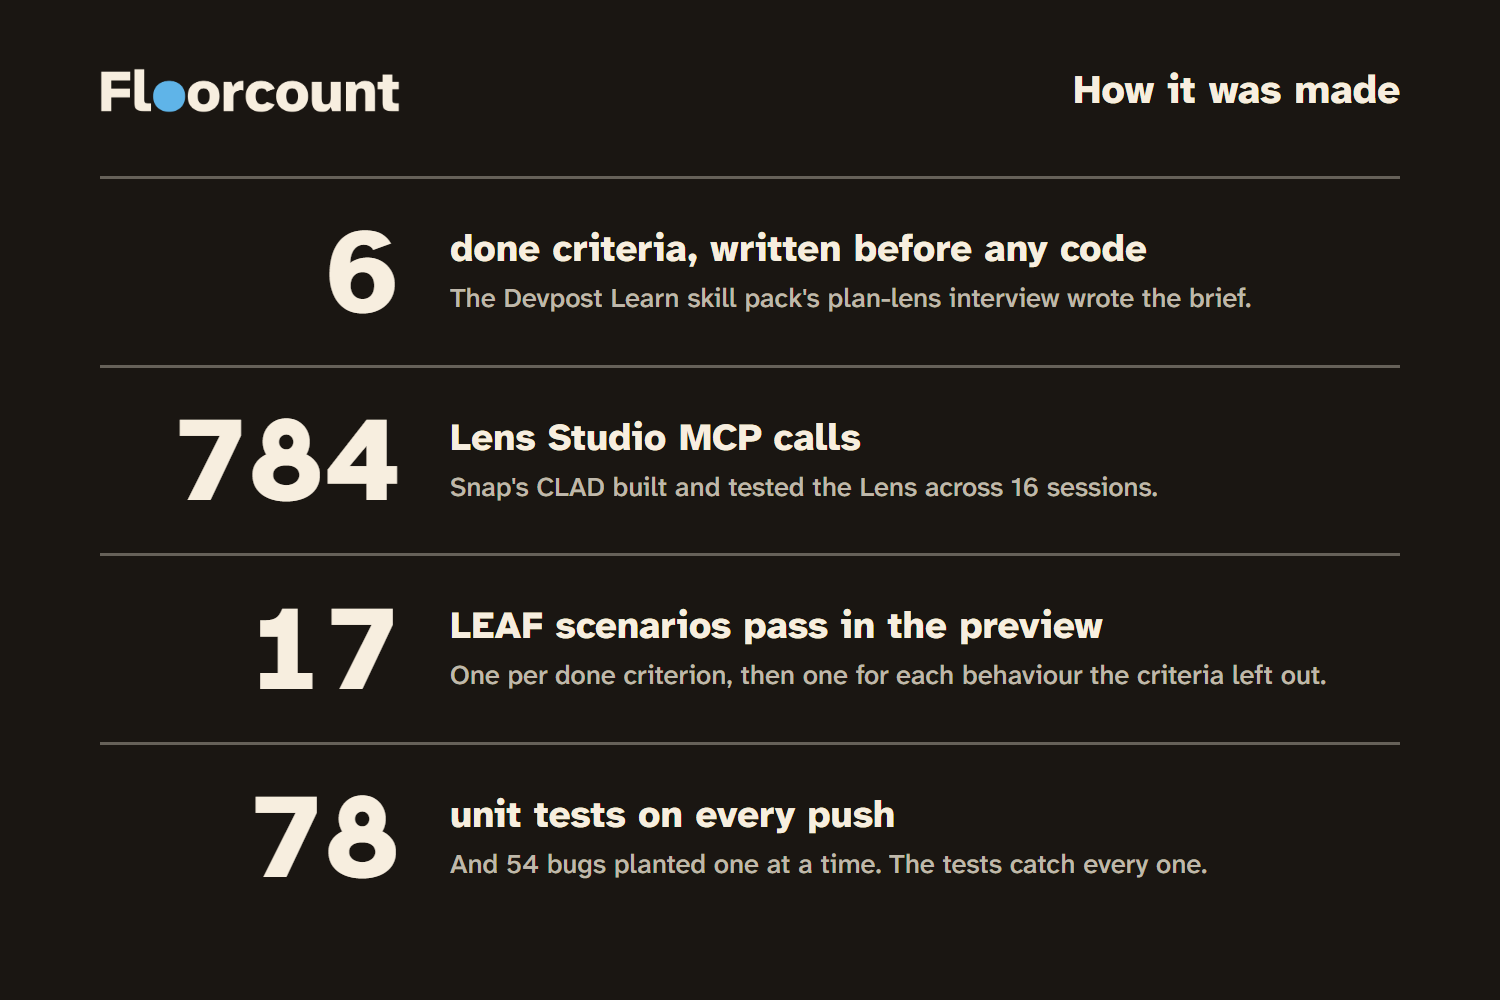
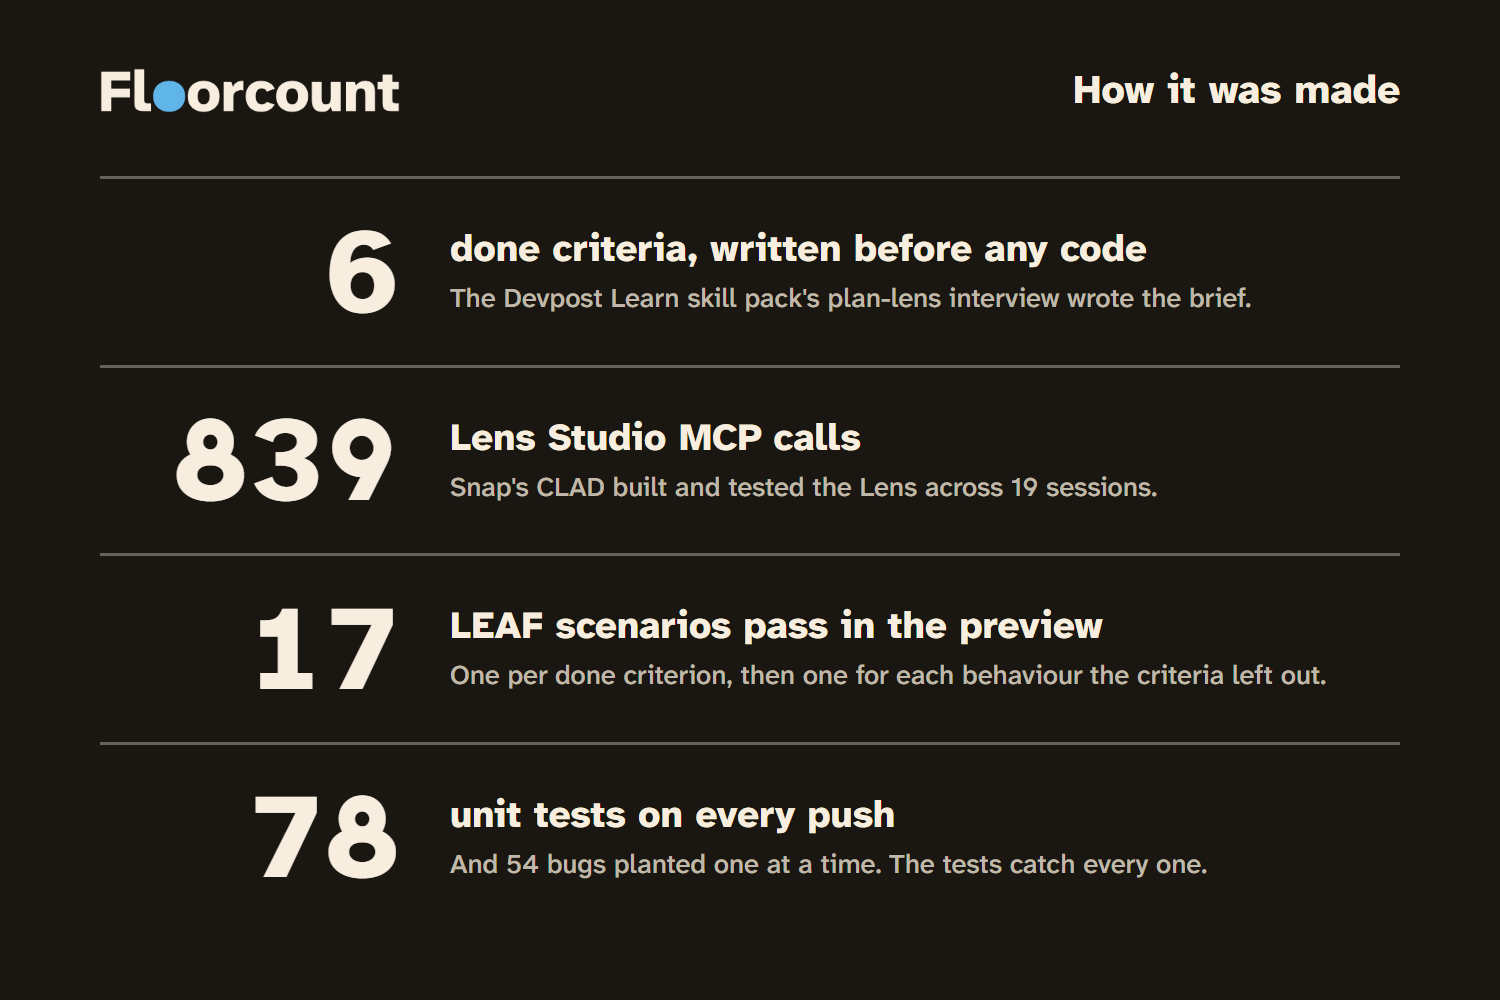
Final fresh-clone sweep on 222c26d: 17 of 17, c8 three of three
Beat test, build log counts and the known resume quirk recorded.

Changed region(s): [[0.092, 0.403, 0.276, 0.496], [0.6747, 0.465, 0.7667, 0.496]]

diff --git a/.design/brand/gallery-how-it-was-made.html b/.design/brand/gallery-how-it-was-made.html
@@ -35,9 +35,9 @@ body { width: 1500px; height: 1000px; overflow: hidden; background: #1A1612; col
       <p class="how">The Devpost Learn skill pack's plan-lens interview wrote the brief.</p></div>
   </div>
   <div class="row">
-    <div class="n" id="mcp">784</div>
+    <div class="n" id="mcp">839</div>
     <div><p class="what">Lens Studio MCP calls</p>
-      <p class="how">Snap's CLAD built and tested the Lens across <span id="sessions">16</span> sessions.</p></div>
+      <p class="how">Snap's CLAD built and tested the Lens across <span id="sessions">19</span> sessions.</p></div>
   </div>
   <div class="row">
     <div class="n" id="leaf">17</div>

diff --git a/devpost/PROMPTS.md b/devpost/PROMPTS.md
@@ -345,3 +345,37 @@ Do, in order:
 
 If usage or time runs short: the sweep and the saves come first, then the report, then step 4, then the c8 extension (say so if it is missing).
 ```
+
+## 6 November: answer-guard rerun
+
+```text
+Rerun one LEAF scenario on the Floorcount Lens now that the GPU is free, and record the result. About 25 tool calls. Change nothing in the Lens.
+
+Project root: this folder (ARSpec.esproj). Lens Studio is open on it; the lens-studio MCP server is connected. Read the "Review fixes, 6 November 2026" section at the end of devpost/design-pass-report.md first: it explains that c8 failed only because the preview was throttled.
+
+Rules: install nothing; never call QueryRuntimeSceneTool or PreviewInteractTool. Do not run git. Do not start a shell command with `cd`. Do not move or click the mouse. Do not edit anything except the report section named below. LEAF's panel prints "Loaded 19 scenario(s) from preview" when ready; a run dispatched before that is lost. Pin LEAF to the preview. A run that outlasts the MCP timeout may still have finished; read its result from the log.
+
+1. Refresh the preview, wait for the panel's ready line, run floorcount-c2-beat and read its sample count from the log. If it is under 90 samples the preview is still throttled: write that number into the report section as "GPU still busy, c8 not rerun" and stop.
+2. Otherwise refresh, then run floorcount-c8-answer-guard twice, refreshing between runs. Read every "[C8]" print from the Lens Studio log for both runs.
+3. Append to the "Review fixes, 6 November 2026" section of devpost/design-pass-report.md a short subsection "c8 rerun" with the C2 sample count, each c8 run's result and its printed lines (the beats of the late answer and the dropped one, and the paused check). If c8 fails on a healthy preview, quote the failing assertion and say which part failed; do not edit the scenario or the Lens.
+4. Clear the saved session if any scenario left one (floorcount-c9-session-memory clears it) and save through the Editor API.
+```
+
+## 6 November: final LEAF sweep on a fresh clone
+
+```text
+Run the LEAF scenarios on a fresh clone of the public repository. Keep this tight: about 60 tool calls. Change nothing in the Lens.
+
+Lens Studio is already open on the fresh clone at <fresh clone>/ (cloned from GitHub minutes ago) and the lens-studio MCP server is connected. Work only in that folder. Do not touch the working project.
+
+Rules: install nothing; never call QueryRuntimeSceneTool or PreviewInteractTool. Do not run git. Do not start a shell command with `cd`. Do not move or click the mouse. Do not save the project: it is a throwaway clone. Do not edit any file.
+
+LEAF's panel prints "Loaded 19 scenario(s) from preview" when it is ready, and a run dispatched before that line is lost. Pin LEAF to the preview, not a device. The preview slows down the longer it runs, so refresh it before the timing-sensitive scenarios (c2, c5, c8, c9, c13). If it goes silent, check PreviewPanelTool getConfig: "Preview is Paused" needs a refresh. Check that the Lens Studio window is not minimised (IsIconic from PowerShell; restore with ShowWindow(handle, 9)), because a minimised window throttles rendering. A run that outlasts the MCP timeout may still have finished: read the result from the log.
+
+1. Confirm the open project is the clone (Editor API `projectFile` or `projectDirectory`) and that it compiled clean. If the wrong project is open, stop and say so.
+2. Start the preview and confirm "Floorcount: session started" with no Floorcount errors.
+3. Run floorcount-c1-start through floorcount-c17-teal-law once each, in order, reading C2's sample count. If that count is under 90 the preview is throttled: say so.
+4. Then run floorcount-c8-answer-guard twice more, three runs in all, refreshing before each. Read its "[C8]" prints for every run. It was changed today, so three runs matter here.
+5. Do not retry any other failure more than once, and report any retry with its reason.
+6. Finish with a plain report: the project path, the compile result, each scenario PASS or FAIL, C2's sample count and BPM, and for each c8 run the beats of the late answer and the dropped one. Write nothing to disk.
+```

diff --git a/README.md b/README.md
@@ -64,7 +64,7 @@ It changes with how I'm doing. Two Agains slow the music and cut the step in hal
 1. **Planned with the Devpost skill pack.** The `plan-lens` interview wrote [devpost/design-brief.md](devpost/design-brief.md): one spatial moment, where each thing lives, how the hands act on it, and six done criteria that can be checked in the preview.
 2. **Built by CLAD through the Lens Studio MCP.** Snap's `specs-experience-builder` agent built the scene in Lens Studio 5.23.2 from the brief. Spectacles Interaction Kit handles every pinch, `build-music` and `build-sfx` generated the audio, the sound plays spatially from the pad, and the Editor API saves the project at each milestone.
 
-   Sixteen CLAD sessions made 784 Lens Studio MCP calls: [devpost/BUILD_LOG.md](devpost/BUILD_LOG.md) counts them from the sessions' own transcripts, and [devpost/PROMPTS.md](devpost/PROMPTS.md) holds every prompt, word for word. The account of the build is in [devpost/build-report.md](devpost/build-report.md), including the beat clock CLAD had to rewrite: the preview reports a stale audio position for about a second after play, and the first version read that as the loop wrapping and ran the count at up to 620 BPM against a 140 BPM track.
+   Nineteen CLAD sessions made 839 Lens Studio MCP calls: [devpost/BUILD_LOG.md](devpost/BUILD_LOG.md) counts them from the sessions' own transcripts, and [devpost/PROMPTS.md](devpost/PROMPTS.md) holds every prompt, word for word. The account of the build is in [devpost/build-report.md](devpost/build-report.md), including the beat clock CLAD had to rewrite: the preview reports a stale audio position for about a second after play, and the first version read that as the loop wrapping and ran the count at up to 620 BPM against a 140 BPM track.
 3. **Tested twice over.** LEAF scenarios run the Lens in the preview, one per done criterion and then more for what the criteria leave out. Unit tests run the session rules and the footwork data with no Lens Studio at all, on every push. See [Tests](#tests).
 4. **Designed as its own thing.** The first build worked and looked like a default: cartoon feet in blue and orange, a frosted panel, stock icons. The look it has now comes from the clave, salsa's timekeeper. The clave is the pair of wooden sticks that keep time in salsa. The pad is laid out like its rhythm grid, each print is a struck note, and the light fades over one beat the way a struck clave rings out. On this display black is transparent and alpha is brightness, so there is one ivory ink at three brightnesses and one teal reserved for the 1. Left feet are solid and right feet are outlined, because a clave pair has two roles: one is held and the other strikes it. The laws are in [.design/brand/CHARTER.md](.design/brand/CHARTER.md), the sheet is [.design/brand/index.html](.design/brand/index.html), and what CLAD changed to apply them is in [devpost/design-pass-report.md](devpost/design-pass-report.md).
 
@@ -96,7 +96,7 @@ Seventeen LEAF scenarios in [`Assets/Tests/`](Assets/Tests/), run in the preview
 | `floorcount-c16-arc-inside-pad` | Measured in the running Lens, both turn arcs stay inside the border: 35.7 and 35.2 cm from the centre against an inner edge at 43.2. |
 | `floorcount-c17-teal-law` | Across all three steps, the only teal in the scene is the count 1 print and cell 1. |
 
-The first six are the brief's done criteria. The beat test, run on a fresh clone of this repository, sampled the Lens 127 times over 8 seconds and found no wrong print, nothing lit on a hold, and 139.6 BPM against the 140 BPM loop. How many samples it gets depends on how fast the preview is running that day; the result is the same.
+The first six are the brief's done criteria. The beat test, run on a fresh clone of this repository, sampled the Lens 121 times over 8 seconds and found no wrong print, nothing lit on a hold, and 140.6 BPM against the 140 BPM loop. How many samples it gets depends on how fast the preview is running that day; the result is the same.
 
 Most scenarios press Again and Got it back to back to walk the rules, so they switch the one-answer-per-8-count guard off. Scenario 8 runs with it on, the way the Lens ships.
 

diff --git a/devpost/submission.md b/devpost/submission.md
@@ -61,11 +61,11 @@ It changes with how I'm doing. Two Agains slow the music and cut the step in hal
 
 I planned it with the Devpost skill pack. `plan-lens` wrote `devpost/design-brief.md` with one spatial moment, where each thing lives and six done criteria I could check in the preview.
 
-Snap's CLAD built it from that brief in Lens Studio 5.23.2 through the Lens Studio MCP: 16 sessions and 784 MCP calls, counted from the sessions' own transcripts in `devpost/BUILD_LOG.md`, with every prompt in `devpost/PROMPTS.md`. Spectacles Interaction Kit handles every pinch (its `Interactable` on each print and each answer capsule, and `Billboard` on the card), `build-music` and `build-sfx` made the audio, and the sound plays spatially from the pad.
+Snap's CLAD built it from that brief in Lens Studio 5.23.2 through the Lens Studio MCP: 19 sessions and 839 MCP calls, counted from the sessions' own transcripts in `devpost/BUILD_LOG.md`, with every prompt in `devpost/PROMPTS.md`. Spectacles Interaction Kit handles every pinch (its `Interactable` on each print and each answer capsule, and `Billboard` on the card), `build-music` and `build-sfx` made the audio, and the sound plays spatially from the pad.
 
-What the MCP was used for most: `run_leaf_scenario` 228 times, `MovePreviewCamera` 112, `PreviewPanelTool` 97, `ExecuteEditorCode` 82 (scene edits and every save), `RunAndCollectLogsTool` 72 and `RecompileTypeScriptTool` 59. The CLAD skills on the record are `specs-experience-builder` for the first build, `scene-construction`, `editor-api` and `materials` for the scene, the LEAF skills for installing, writing and running the tests, and `build-music` and `build-sfx`. The Lens is nine TypeScript scripts under `Assets/Scripts/`; CLAD wrote them from the brief, and I edited the session rules and the footwork data by hand when the unit tests found the arcs off the pad.
+What the MCP was used for most: `run_leaf_scenario` 251 times, `MovePreviewCamera` 112, `PreviewPanelTool` 102, `ExecuteEditorCode` 86 (scene edits and every save), `RunAndCollectLogsTool` 85 and `RecompileTypeScriptTool` 60. The CLAD skills on the record are `specs-experience-builder` for the first build, `scene-construction`, `editor-api` and `materials` for the scene, the LEAF skills for installing, writing and running the tests, and `build-music` and `build-sfx`. The Lens is nine TypeScript scripts under `Assets/Scripts/`; CLAD wrote them from the brief, and I edited the session rules and the footwork data by hand when the unit tests found the arcs off the pad.
 
-LEAF runs one scenario per done criterion, then eleven more for what the criteria leave out, like the session memory and the rule that only the 1 is ever teal: 17 of 17 pass in the preview. The beat test, run on a fresh clone of the repository, sampled the Lens 127 times over 8 seconds and found no wrong print, nothing lit on a hold, and 139.6 BPM against the 140 BPM loop.
+LEAF runs one scenario per done criterion, then eleven more for what the criteria leave out, like the session memory and the rule that only the 1 is ever teal: 17 of 17 pass in the preview. The beat test, run on a fresh clone of the repository, sampled the Lens 121 times over 8 seconds and found no wrong print, nothing lit on a hold, and 140.6 BPM against the 140 BPM loop.
 
 The rules of a session (when to slow down, when to halve the step, when to move on) and the footwork data are plain TypeScript with no Lens Studio in them, so 78 unit tests run on every push. I also planted 54 bugs in that code, one at a time, to check the tests catch each one. They catch all 54.
 

diff --git a/devpost/BUILD_LOG.md b/devpost/BUILD_LOG.md
@@ -23,26 +23,29 @@ The first session, on 1 November, ran inside the planning chat and its transcrip
 | 6 Nov, 17:59 | Fresh-clone sweep | Ran all 17 LEAF scenarios on a fresh clone of the public repository: 17 of 17, no retries. | 8 | 40 | 35 |
 | 6 Nov, 18:15 | Preview capture, more (cut off) | Recorded the arrow and count-hiding clips through the real answer guard. Lens Studio crashed on the third clip. | 13 | 83 | 19 |
 | 6 Nov, 18:32 | Review fixes | Compiled and swept the Lens after the fixes from an independent code review, extended the answer-guard scenario, checked the fade line in a running session. | 42 | 131 | 53 |
-| | **Counted total** | 16 sessions | 472 | **2125** | **784** |
+| 6 Nov, 20:35 | Answer guard rerun | Reran the answer-guard scenario on a free GPU. One pass, one fail, which traced to the scenario, not the Lens. | 7 | 30 | 16 |
+| 6 Nov, 20:51 | Fresh-clone sweep (stopped) | Found the working project still holding the MCP and stopped before running anything, rightly. | 2 | 10 | 2 |
+| 6 Nov, 21:15 | Fresh-clone sweep, final | All 17 LEAF scenarios on a fresh clone of the public repository, with the answer-guard scenario three times: 17 of 17, no retries. | 9 | 44 | 37 |
+| | **Counted total** | 19 sessions | 490 | **2209** | **839** |
 
 ## What the Lens Studio MCP was used for
 
 | MCP tool | Calls |
 |---|---|
-| `run_leaf_scenario` | 228 |
+| `run_leaf_scenario` | 251 |
 | `MovePreviewCamera` | 112 |
-| `PreviewPanelTool` | 97 |
-| `ExecuteEditorCode` | 82 |
-| `RunAndCollectLogsTool` | 72 |
-| `RecompileTypeScriptTool` | 59 |
+| `PreviewPanelTool` | 102 |
+| `ExecuteEditorCode` | 86 |
+| `RunAndCollectLogsTool` | 85 |
+| `RecompileTypeScriptTool` | 60 |
 | `asset-graphql` | 38 |
-| `list_leaf_scenarios` | 21 |
+| `list_leaf_scenarios` | 25 |
 | `scene-graphql` | 16 |
+| `open_leaf_panel` | 16 |
 | `CapturePanelScreenshotTool` | 15 |
-| `open_leaf_panel` | 14 |
+| `set_leaf_execution_target` | 8 |
+| `ListAllPanels` | 7 |
 | `VirtualScene` | 6 |
-| `ListAllPanels` | 6 |
-| `set_leaf_execution_target` | 6 |
 | `ListInstalledPackagesTool` | 4 |
 | `SearchLensStudioAssetLibrary` | 2 |
 | `QueryRuntimeSceneTool` | 2 |
@@ -52,4 +55,4 @@ The first session, on 1 November, ran inside the planning chat and its transcrip
 
 Two of these tools are on every later prompt's do-not-call list, and the table still shows them. The two `QueryRuntimeSceneTool` calls and the one `InstallLensStudioPackage` call are from the 2 November build session. The install was LEAF itself, which the Lens needed. The scene query silently installed a second package that broke the TypeScript build, which is how that rule got onto every prompt after it. The one `PreviewInteractTool` call, on 3 November, did the same, and joined the list.
 
-Five sessions were cut off partway through by a usage or turn limit or a crash, and two were stopped by hand. All seven are listed and counted, including the ones that went wrong. Each session after a cut-off began by reading what the last one had written.
+Five sessions were cut off partway through by a usage or turn limit or a crash, two were stopped by hand, and one stopped itself on finding the wrong project open. All eight are listed and counted, including the ones that went wrong. Each session after a cut-off began by reading what the last one had written.

diff --git a/devpost/clean-clone-test.md b/devpost/clean-clone-test.md
@@ -1,6 +1,6 @@
 # Fresh-clone test
 
-What happens when someone who is not me gets this repository and opens it. Run on 6 November 2026 from the public GitHub repository, on Windows 11 with Lens Studio 5.23.2. Results are for commit `7e5fa87`. The commits after it change only documents and this file: the Lens, its tests and the packages are byte for byte the same. It runs again if any of those change before submission.
+What happens when someone who is not me gets this repository and opens it. Run on 6 November 2026 from the public GitHub repository, on Windows 11 with Lens Studio 5.23.2. Results are for commit `222c26d`. Any commit after it changes only documents: the Lens, its tests and the packages are byte for byte the same. It runs again if any of those change before submission.
 
 ## What was done
 
@@ -18,8 +18,8 @@ What happens when someone who is not me gets this repository and opens it. Run o
 | Lens Studio opens the project | Yes, after one prompt (below) |
 | TypeScript compiles | Yes, clean |
 | The Lens starts | Yes: "Floorcount: session started, Basic step at Slow (140 BPM)", no Floorcount errors |
-| LEAF scenarios | **17 of 17 pass, no retries** |
-| Beat test on the clone | 127 samples over 8 seconds, no wrong print, nothing lit on a hold, 139.6 BPM |
+| LEAF scenarios | **17 of 17 pass, no retries**, and the answer-guard scenario, changed that day, 3 of 3 |
+| Beat test on the clone | 121 samples over 8 seconds, no wrong print, nothing lit on a hold, 140.6 BPM |
 | GitHub Actions on the same commit | Passes: unit tests, planted breaks, repository checks |
 
 The number of samples depends on how fast the preview is running on the day. The result is the same: no wrong print, on tempo.

diff --git a/devpost/design-pass-report.md b/devpost/design-pass-report.md
@@ -1281,3 +1281,17 @@ scenario's `canAnswer` false check failed. The 2.94 s the run spent there is tha
 now looks at the 8-count straight after the answer, wherever the pinch left the session, and also
 asserts that it is still inside the six-beat window. The fresh-clone sweep in
 `devpost/clean-clone-test.md` runs it on the commit that is public.
+
+**Final sweep on a fresh clone of the public repository, commit 222c26d.** 17 of 17, no retries, and
+`floorcount-c8-answer-guard` three times out of three. C2: 121 samples over 8.05 s, 140.6 BPM, every
+content counter zero. c8's three runs took the late answer on beats 23.41, 23.30 and 23.51 and dropped
+the next on beats 24.92, 25.14 and 25.25, between 1.52 and 1.84 beats apart against the 6 the guard
+asks for. The check that had raced now passes every time.
+
+**One known quirk, left alone on purpose.** Those same runs paused on beat 30.4 and resumed on beat
+96, 32 and 64. A pause in the last two seconds of a loop can make the clock credit one or two false
+loop wraps as the player's position settles on resume. Each adds exactly 32 beats, a whole number of
+8-counts, so the count on screen and the lit print stay right. The worst case is one answer taken
+sooner than the guard would like after that pause, or a fade paused there finishing early. A change
+to the beat clock this close to submission is a bigger risk than the quirk.
+
